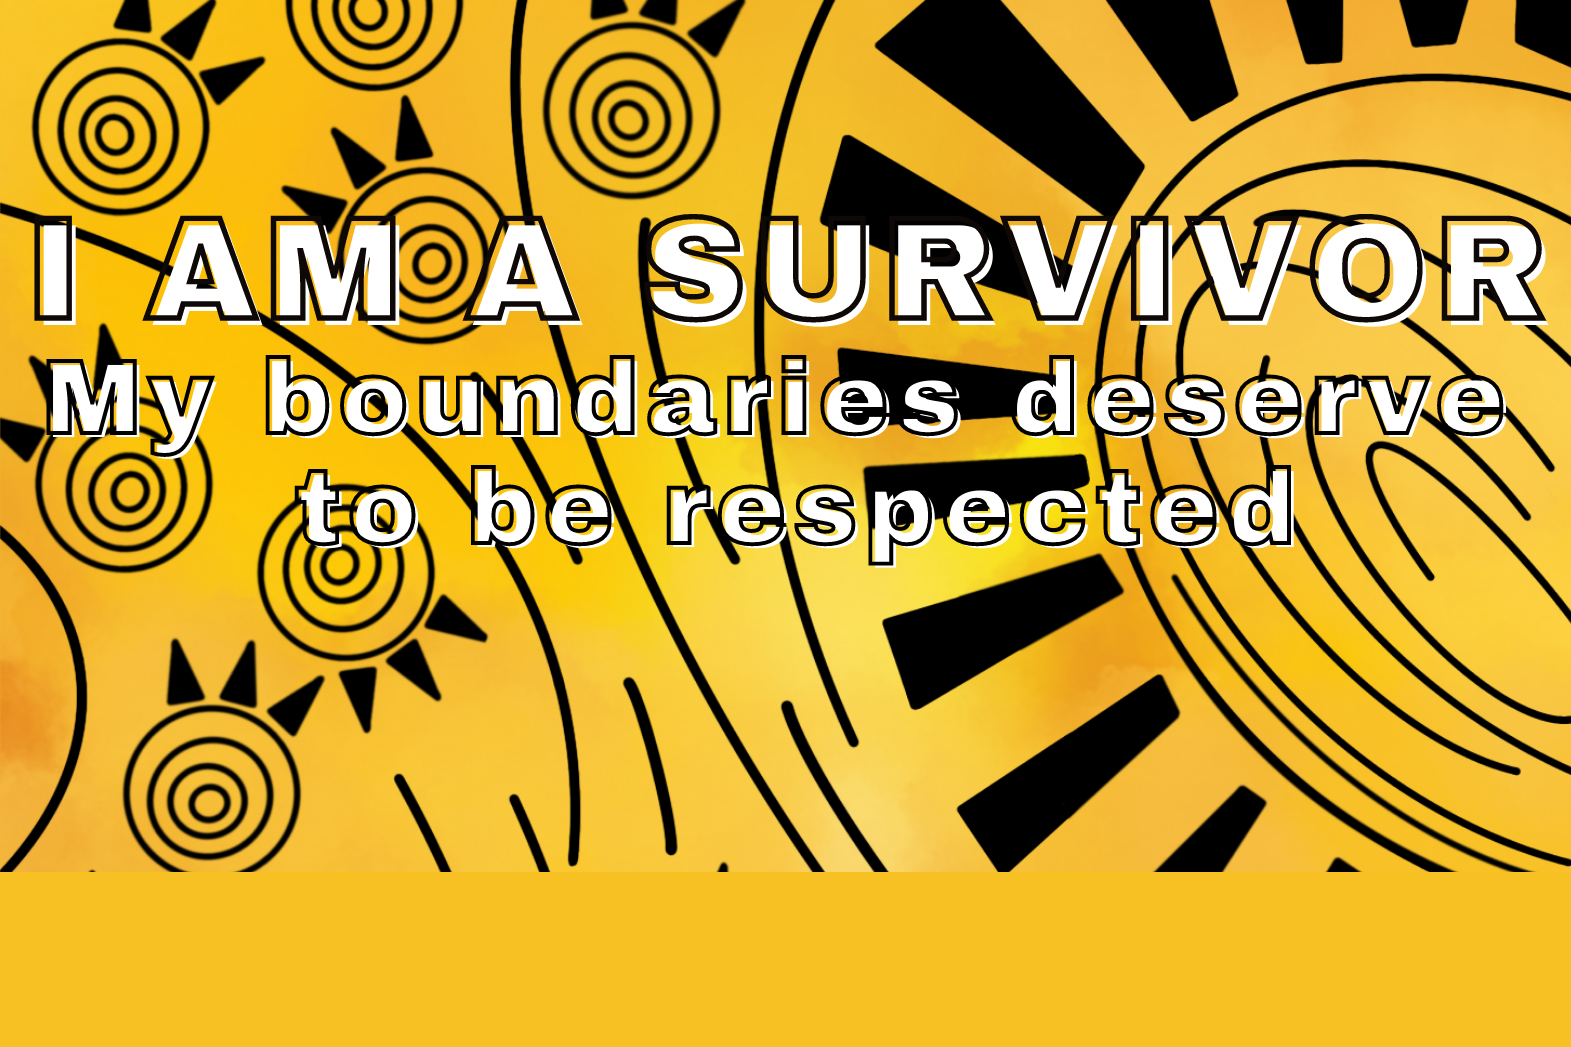
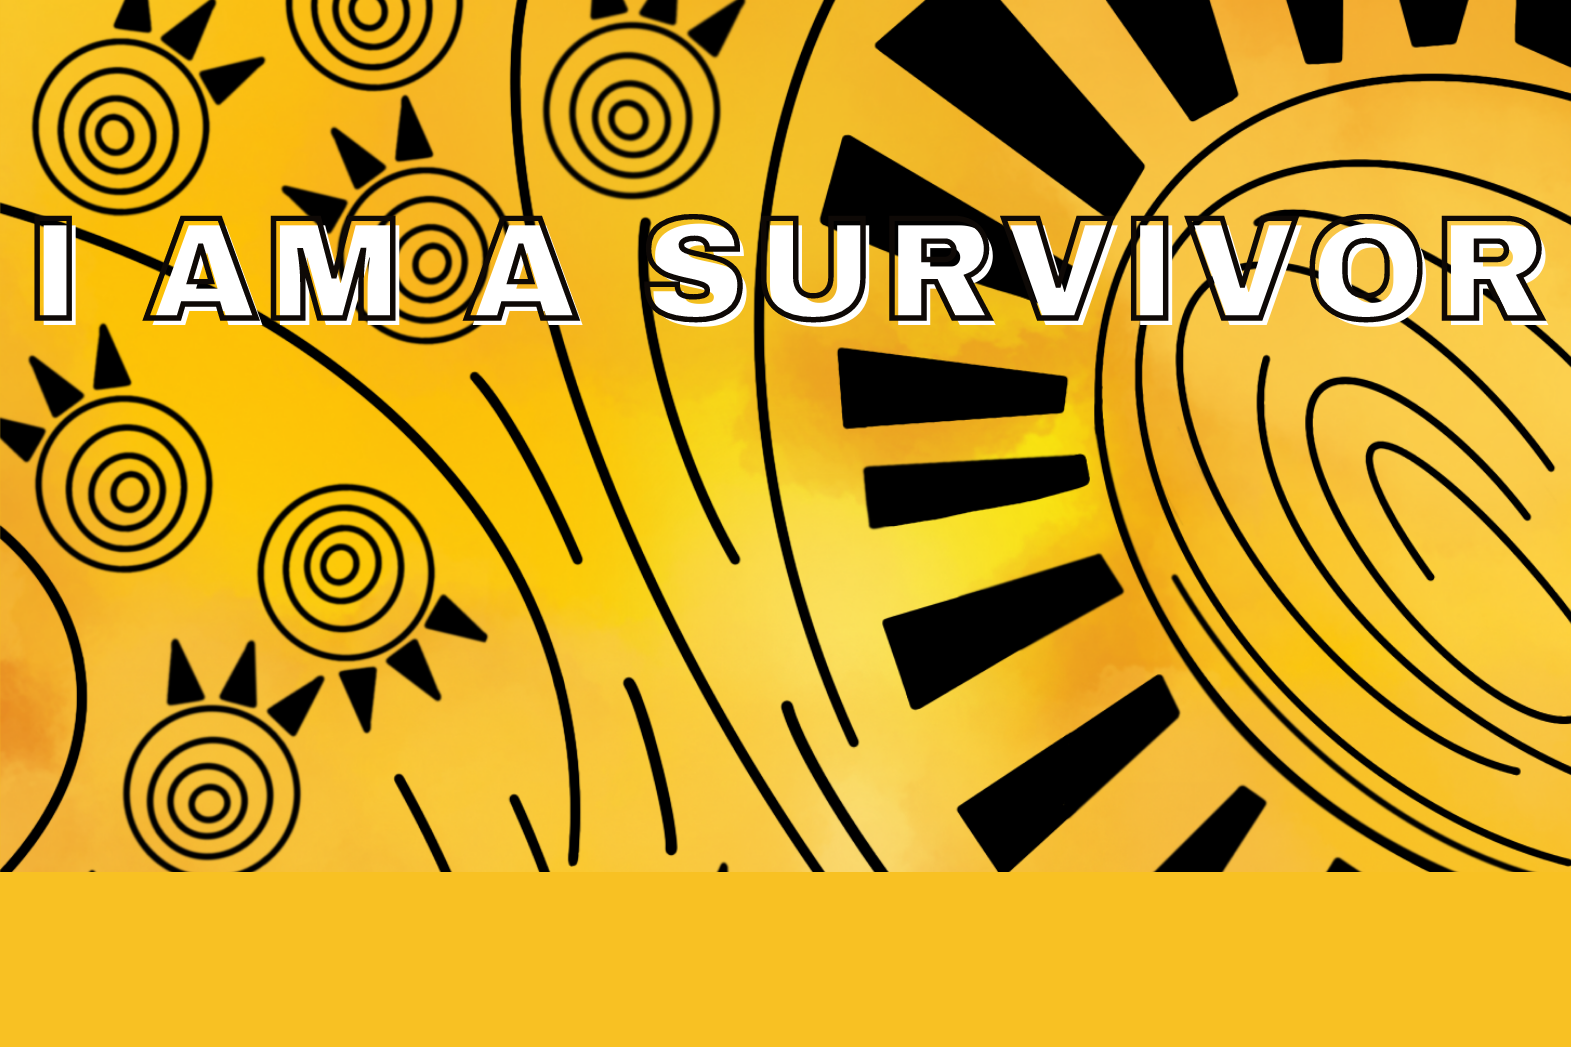
Add default pictures and subheaders.

Changed region(s): [[0.0312, 0.3362, 0.9669, 0.5501]]

diff --git a/src/template_form.tsx b/src/template_form.tsx
@@ -1,5 +1,18 @@
 import {Component, ReactNode} from 'react';
-import {Button, Container, Form, Grid, Header, Icon, Image, Input, Segment, Select, TextArea} from "semantic-ui-react";
+import {
+  Button,
+  Checkbox,
+  Container,
+  Form,
+  Grid,
+  Header,
+  Icon,
+  Image,
+  Input,
+  Segment,
+  Select,
+  TextArea
+} from "semantic-ui-react";
 import {CanvasRenderer, ImageElement, PdfRenderer, ReactRenderer, RenderElement, TextElement} from "./renderer";
 import {CropBox} from "./cropbox";
 import {FONTS} from "./fonts";
@@ -15,6 +28,7 @@ interface State {
   website?: string
   program_info?: string
   logo?: string
+  use_default_pic?: boolean
   pic?: string
   font?: string
   fontSize?: number
@@ -23,7 +37,7 @@ interface State {
   cropModalCallback?: (dataUrl: string) => void
 }
 
-class ImageSelectFormField extends Component<{value?: string, clear: () => void, setImage: (files: FileList) => void}, {}> {
+class ImageSelectFormField extends Component<{value?: string, disabled?: boolean, clear: () => void, setImage: (files: FileList) => void}, {}> {
   render() {
     if (this.props.value) {
       return <Segment clearing>
@@ -33,7 +47,7 @@ class ImageSelectFormField extends Component<{value?: string, clear: () => void,
         </Button>
       </Segment>;
     }
-    return <Input type="file" onChange={e => this.props.setImage(e.target.files)} />;
+    return <Input disabled={this.props.disabled} type="file" onChange={e => this.props.setImage(e.target.files)} />;
   }
 }
 
@@ -45,6 +59,7 @@ export class TemplateForm extends Component<Props, State> {
       size: 0,
       website: "",
       program_info: "",
+      use_default_pic: true,
       font: 'Quicksand',
       fontSize: 55,
     };
@@ -59,6 +74,7 @@ export class TemplateForm extends Component<Props, State> {
       program_info: "",
       logo: undefined,
       pic: undefined,
+      use_default_pic: true,
       font: 'Quicksand',
       fontSize: 55,
       cropModalHref: undefined,
@@ -170,6 +186,12 @@ export class TemplateForm extends Component<Props, State> {
         new ImageElement(`${campaign.assetPath}/${background.name.toLowerCase()}_${size.name.toLowerCase()}.png`,
             {x: 0, y: 0, width: size.width, height: size.height}),
     ];
+    if (size.subheader && !this.state.use_default_pic) {
+      children.push(this.toImageElement(size.subheader, `${campaign.assetPath}/${background.name.toLowerCase()}_subheader.png`));
+    }
+    if (this.state.use_default_pic) {
+      children.push(this.toImageElement(size.picture, `${campaign.assetPath}/${background.name.toLowerCase()}_defaultpicture.png`));
+    }
     if (size.picture && this.state.pic) {
       children.push(this.toImageElement(size.picture, this.state.pic));
     }
@@ -231,10 +253,22 @@ export class TemplateForm extends Component<Props, State> {
                   <label>Logo</label>
                   <ImageSelectFormField value={this.state.logo} clear={() => this.setState({logo: undefined})} setImage={(files) => this.setImage('logo', files)} />
                 </Form.Field>
-                <Form.Field>
+
+                <Form.Group inline>
                   <label>Picture</label>
-                  <ImageSelectFormField value={this.state.pic} clear={() => this.setState({pic: undefined})} setImage={(files) => this.setImage('pic', files)} />
+                  <Form.Field>
+                    <Checkbox toggle label="Use default picture" checked={this.state.use_default_pic} onChange={(e, data) => {
+                      this.setState({
+                        use_default_pic: data.checked,
+                        pic: data.checked ? undefined : this.state.pic,
+                      });
+                    }} />
+                  </Form.Field>
+                </Form.Group>
+                <Form.Field>
+                  <ImageSelectFormField disabled={this.state.use_default_pic} value={this.state.pic} clear={() => this.setState({pic: undefined})} setImage={(files) => this.setImage('pic', files)} />
                 </Form.Field>
+
                 <Form.Field>
                   <label>Font</label>
                   <Select options={FONTS.map(f => {return {key: f, label: <label style={{fontFamily: f}}>{f}</label>, value: f}})}

diff --git a/src/model.ts b/src/model.ts
@@ -4,6 +4,7 @@ export interface SizeSpec {
     width: number
     height: number
 
+    subheader?: ImageSpec
     picture?: ImageSpec
     logo?: ImageSpec
     website?: TextSpec
@@ -69,6 +70,14 @@ export const DEMO_CAMPAIGN: Campaign = {
             name: "11x14",
             width: 1571,
             height: 2000,
+            subheader: {
+                x: 0,
+                y: 355,
+                width: 1571,
+                height: 1645,
+                horizontalAlignment: 'center',
+                verticalAlignment: 'top',
+            },
             picture: {
                 x: 0,
                 y: 590,
@@ -102,6 +111,14 @@ export const DEMO_CAMPAIGN: Campaign = {
             name: "Square",
             width: 1571,
             height: 1571,
+            subheader: {
+                x: 0,
+                y: 355,
+                width: 1571,
+                height: 1216,
+                horizontalAlignment: 'center',
+                verticalAlignment: 'top',
+            },
             picture: {
                 x: 0,
                 y: 590,
@@ -135,6 +152,14 @@ export const DEMO_CAMPAIGN: Campaign = {
             name: "4x6",
             width: 1571,
             height: 1047,
+            subheader: {
+                x: 0,
+                y: 355,
+                width: 1571,
+                height: 692,
+                horizontalAlignment: 'center',
+                verticalAlignment: 'top',
+            },
             picture: {
                 x: 0,
                 y: 590,
